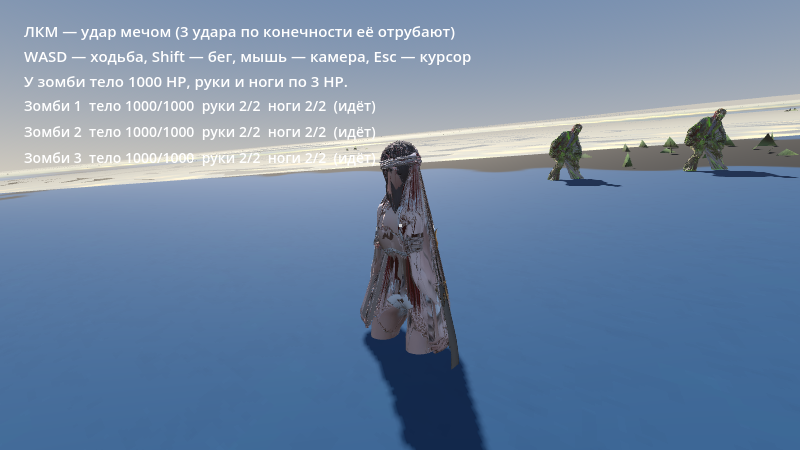
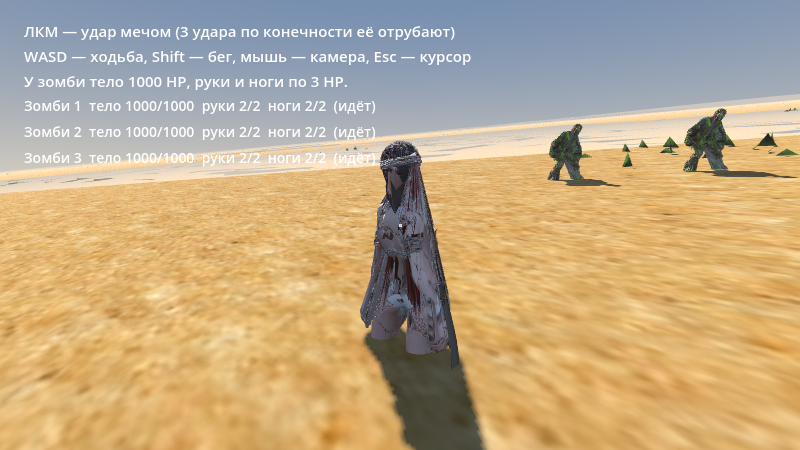
ci: отчёт проверки движком [skip ci]

diff --git a/ci/report.md b/ci/report.md
@@ -89,7 +89,7 @@ PASS  zombie.glb «Walk»: 22 дорожек, битых 0, длина 1.20 с
 PASS  zombie.glb «WalkNoArms»: 22 дорожек, битых 0, длина 1.20 с
 
 === главная сцена
-остров: тайлинг текстуры включён для 1 поверхностей
+остров: плитка земли (8 м) на 1 поверхностях, вершинные цвета для растительности включены
 PASS  medic.glb: «MxWalk» двигает кисть на 17.5 см
   бёдра в мировых координатах: (0.022071, 0.483637, -0.006296)
 PASS  zombie.glb: «MxWalk» двигает кисть на 12.9 см
@@ -142,7 +142,7 @@ ERROR: Condition "status < 0" is true. Returning: ERR_CANT_OPEN
 WARNING: All audio drivers failed, falling back to the dummy driver.
      at: initialize (servers/audio_server.cpp:247)
 
-остров: тайлинг текстуры включён для 1 поверхностей
+остров: плитка земли (8 м) на 1 поверхностях, вершинные цвета для растительности включены
 внешние клипы: +7 из res://models/medic_clips.glb
 внешние клипы: +7 из res://models/zombie_clips.glb
 shot 01_player (800, 450) -> /tmp/shots/01_player.png err=0
